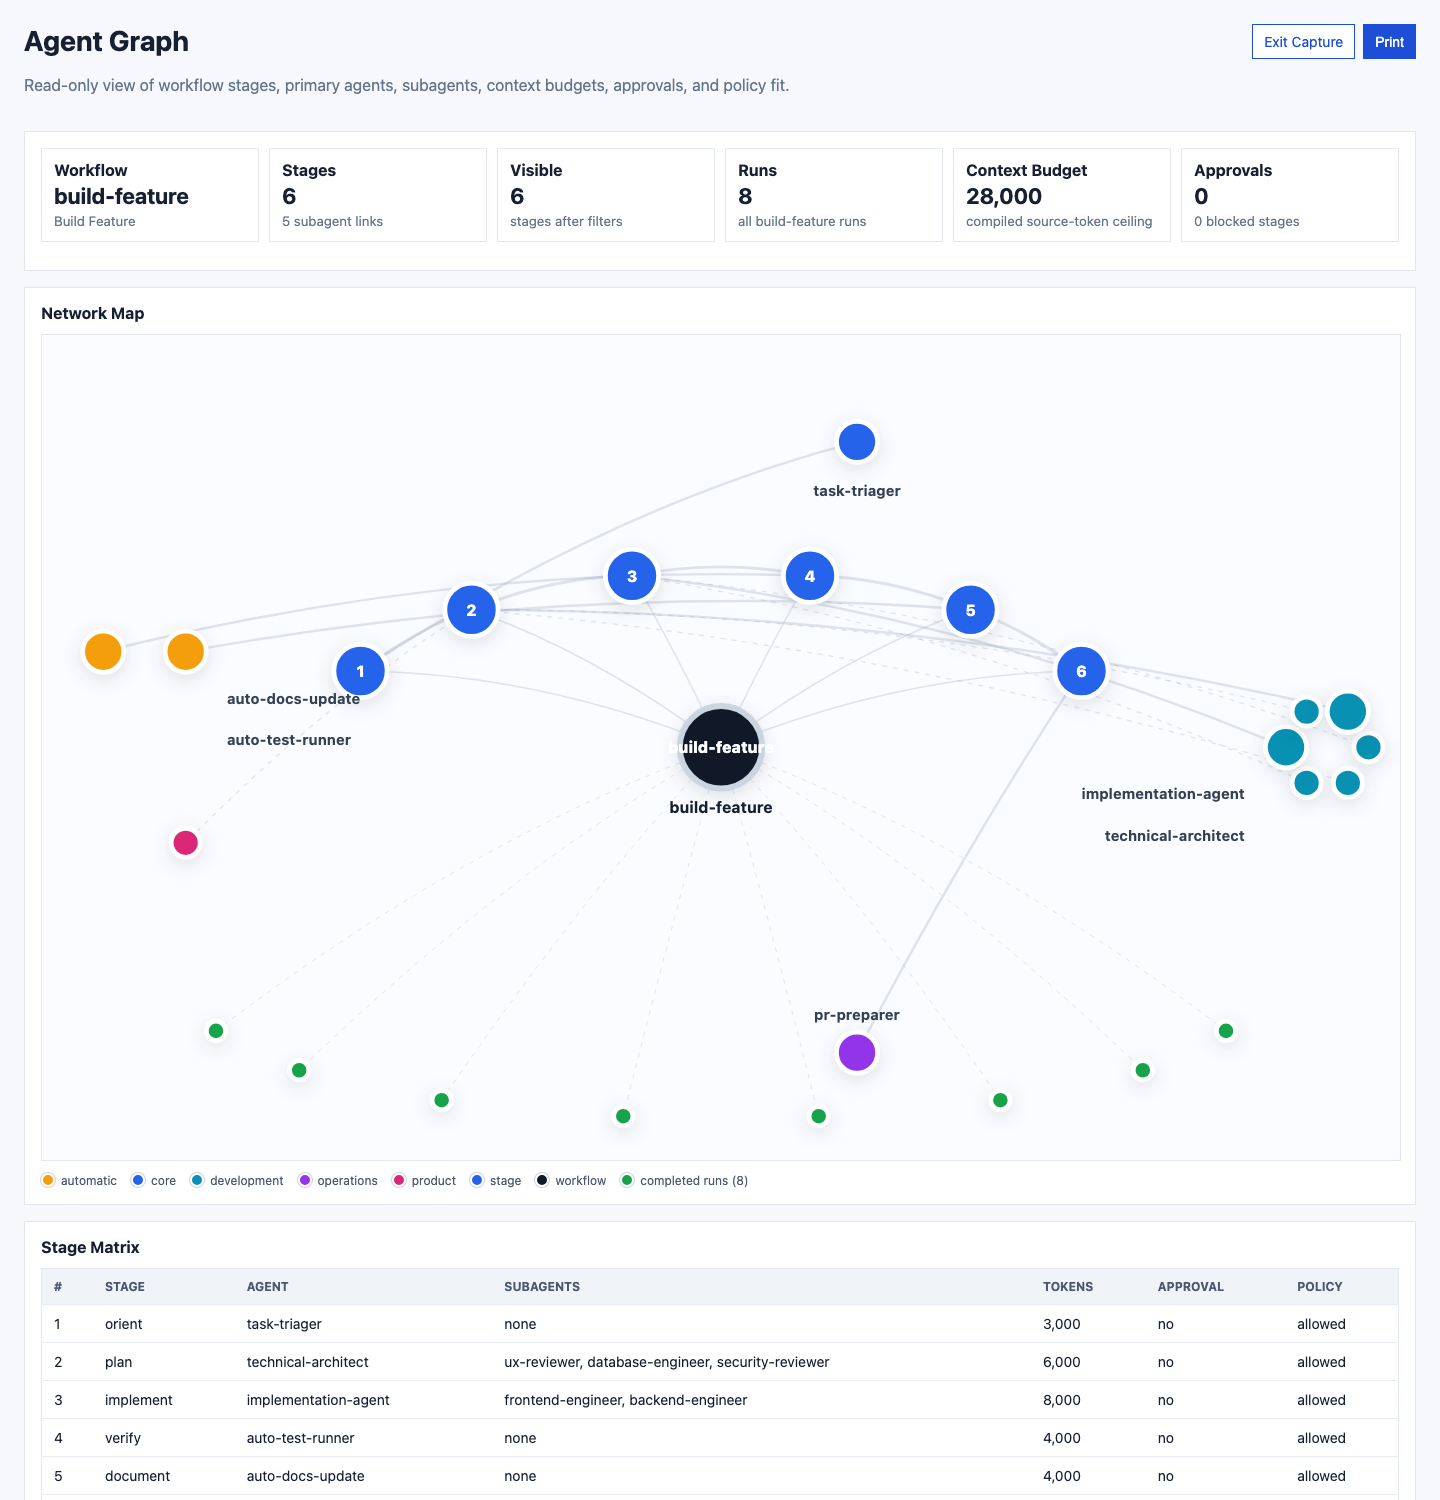
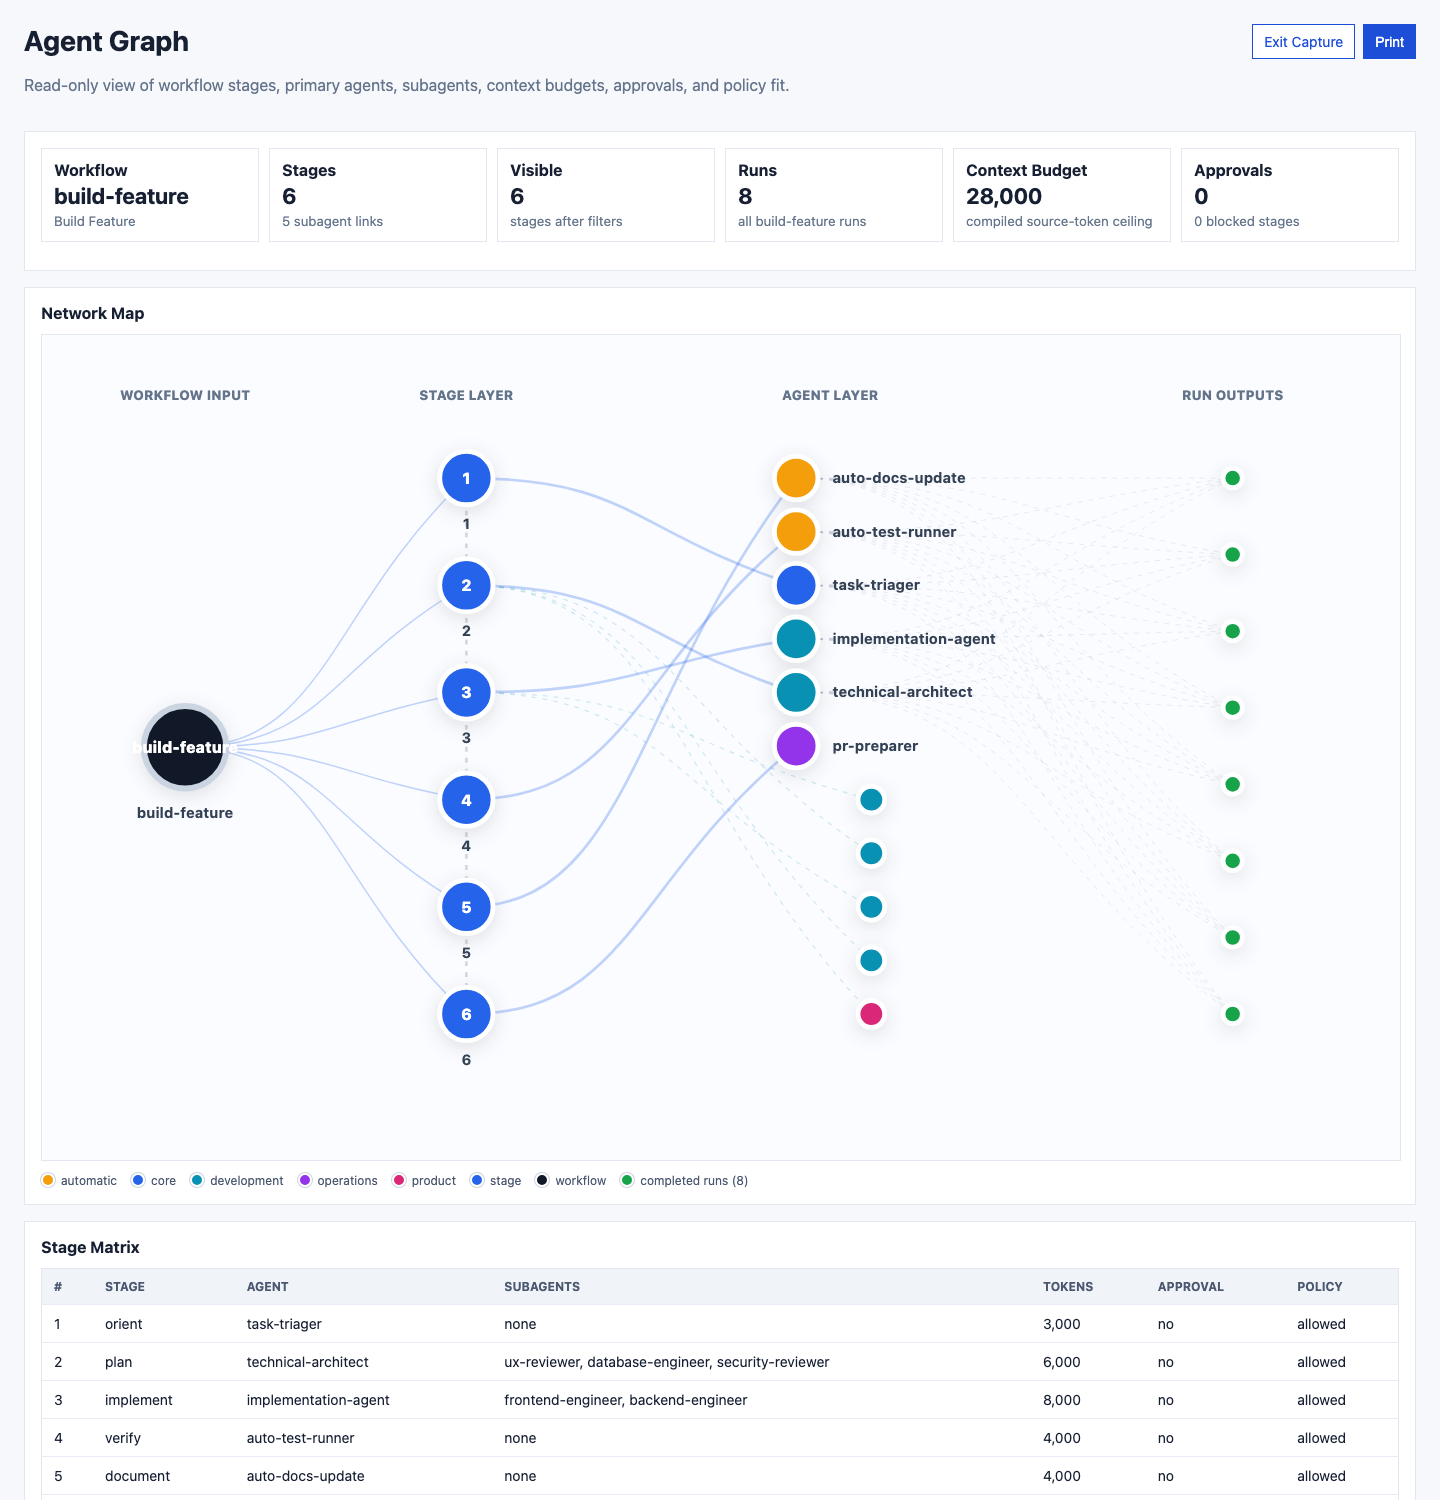
Render workflow graph as neural map

diff --git a/apps/cli/src/index.ts b/apps/cli/src/index.ts
@@ -5667,10 +5667,12 @@ function renderWorkflowNetworkHtml(report: DashboardWorkflowGraphReport, stages:
   if (!stages.length) return '<p class="muted">No stages match the selected filters.</p>';
   const width = 1120;
   const height = 680;
-  const centerX = width / 2;
-  const centerY = height / 2;
-  const stageRadiusX = 330;
-  const stageRadiusY = 145;
+  const layerTop = 118;
+  const layerBottom = 560;
+  const workflowX = 118;
+  const stageX = 350;
+  const agentX = 650;
+  const runX = 982;
   const palette: Record<string, string> = {
     automatic: "#f59e0b",
     core: "#2563eb",
@@ -5686,36 +5688,43 @@ function renderWorkflowNetworkHtml(report: DashboardWorkflowGraphReport, stages:
     queued: "#f59e0b",
     cancelled: "#64748b"
   };
-  const nodeById = new Map<string, { id: string; label: string; title: string; x: number; y: number; r: number; color: string; kind: string; href?: string; labelOffsetY?: number; labelX?: number; labelY?: number; labelAnchor?: string }>();
-  const links: Array<{ from: string; to: string; width: number; dashed?: boolean }> = [];
+  type NetworkNode = { id: string; label: string; title: string; x: number; y: number; r: number; color: string; kind: string; href?: string; labelX?: number; labelY?: number; labelAnchor?: string };
+  const nodeById = new Map<string, NetworkNode>();
+  const links: Array<{ from: string; to: string; width: number; dashed?: boolean; className?: string }> = [];
   nodeById.set("workflow", {
     id: "workflow",
     label: report.workflow.id,
     title: `${report.workflow.name} workflow`,
-    x: centerX,
-    y: centerY,
+    x: workflowX,
+    y: height / 2,
     r: 34,
     color: "#111827",
-    kind: "workflow"
+    kind: "workflow",
+    labelX: workflowX,
+    labelY: height / 2 + 58,
+    labelAnchor: "middle"
   });
 
   const agentEntries = new Map<string, { id: string; label: string; category: string; stageIds: Set<string>; isPrimary: boolean }>();
   stages.forEach((stage, index) => {
-    const angle = stages.length === 1 ? -Math.PI / 2 : -Math.PI + (Math.PI * (index + 1)) / (stages.length + 1);
+    const y = distributeLayerY(index, stages.length, layerTop, layerBottom);
     const stageNodeId = `stage:${stage.id}`;
     nodeById.set(stageNodeId, {
       id: stageNodeId,
       label: String(stage.order),
       title: `${stage.id}: ${stage.goal}`,
-      x: centerX + Math.cos(angle) * stageRadiusX,
-      y: centerY + Math.sin(angle) * stageRadiusY,
+      x: stageX,
+      y,
       r: 22,
       color: stage.policyAllowed ? (stage.approvalRequired || stage.policyApprovalRequired ? "#f59e0b" : "#2563eb") : "#dc2626",
       kind: "stage",
-      href: `#${stageAnchorId(stage.id)}`
+      href: `#${stageAnchorId(stage.id)}`,
+      labelX: stageX,
+      labelY: y + 42,
+      labelAnchor: "middle"
     });
-    links.push({ from: "workflow", to: stageNodeId, width: 1.2 });
-    if (index > 0) links.push({ from: `stage:${stages[index - 1].id}`, to: stageNodeId, width: 2.4 });
+    links.push({ from: "workflow", to: stageNodeId, width: 1.2, className: "signal" });
+    if (index > 0) links.push({ from: `stage:${stages[index - 1].id}`, to: stageNodeId, width: 2.2, dashed: true, className: "sequence" });
     const primary = agentEntries.get(stage.agentId) ?? {
       id: stage.agentId,
       label: stage.agentDisplayName ?? stage.agentId,
@@ -5726,7 +5735,7 @@ function renderWorkflowNetworkHtml(report: DashboardWorkflowGraphReport, stages:
     primary.stageIds.add(stageNodeId);
     primary.isPrimary = true;
     agentEntries.set(stage.agentId, primary);
-    links.push({ from: stageNodeId, to: `agent:${stage.agentId}`, width: 2 });
+    links.push({ from: stageNodeId, to: `agent:${stage.agentId}`, width: 2.2, className: "signal" });
     stage.subagents.forEach((subagent) => {
       const entry = agentEntries.get(subagent.id) ?? {
         id: subagent.id,
@@ -5737,84 +5746,55 @@ function renderWorkflowNetworkHtml(report: DashboardWorkflowGraphReport, stages:
       };
       entry.stageIds.add(stageNodeId);
       agentEntries.set(subagent.id, entry);
-      links.push({ from: stageNodeId, to: `agent:${subagent.id}`, width: 1, dashed: true });
+      links.push({ from: stageNodeId, to: `agent:${subagent.id}`, width: 1, dashed: true, className: "support" });
     });
   });
 
-  const agentsByCategory = new Map<string, Array<{ id: string; label: string; category: string; stageIds: Set<string>; isPrimary: boolean }>>();
-  for (const agent of agentEntries.values()) {
-    const category = agent.category || "uncategorized";
-    const group = agentsByCategory.get(category) ?? [];
-    group.push(agent);
-    agentsByCategory.set(category, group);
-  }
-  const categories = uniqueSorted([...agentsByCategory.keys()]);
-  categories.forEach((category, categoryIndex) => {
-    const group = (agentsByCategory.get(category) ?? []).sort((a, b) => a.id.localeCompare(b.id));
-    const primaryAgents = group.filter((agent) => agent.isPrimary);
-    const primaryRankById = new Map(primaryAgents.map((agent, index) => [agent.id, index]));
-    const categoryAngle = -Math.PI * 0.9 + ((Math.PI * 1.8) * categoryIndex) / Math.max(categories.length - 1, 1);
-    const anchorX = centerX + Math.cos(categoryAngle) * 500;
-    const anchorY = centerY + Math.sin(categoryAngle) * 255;
-    group
-      .forEach((agent, agentIndex) => {
-        const offsetAngle = (Math.PI * 2 * agentIndex) / Math.max(group.length, 1);
-        const radius = 34 + Math.floor(agentIndex / 6) * 28;
-        const primaryRank = primaryRankById.get(agent.id);
-        const edgeCluster = anchorX < 170 || anchorX > width - 170;
-        const primaryOffset = primaryRank === undefined ? 0 : primaryRank - (primaryAgents.length - 1) / 2;
-        nodeById.set(`agent:${agent.id}`, {
-          id: `agent:${agent.id}`,
-          label: agent.id,
-          title: `${agent.label} (${category})`,
-          x: anchorX + Math.cos(offsetAngle) * radius,
-          y: anchorY + Math.sin(offsetAngle) * radius,
-          r: agent.isPrimary ? 17 : 12,
-          color: palette[category] ?? palette.uncategorized,
-          kind: agent.isPrimary ? "primary agent" : "subagent",
-          labelOffsetY: primaryRank === undefined ? 0 : primaryOffset * 34,
-          labelX: edgeCluster && primaryRank !== undefined ? anchorX < centerX ? anchorX + 68 : anchorX - 68 : undefined,
-          labelY: edgeCluster && primaryRank !== undefined ? anchorY + 60 + primaryOffset * 34 : undefined,
-          labelAnchor: edgeCluster && primaryRank !== undefined ? anchorX < centerX ? "start" : "end" : undefined
-        });
-      });
+  const agents = [...agentEntries.values()].sort((a, b) => {
+    if (a.isPrimary !== b.isPrimary) return a.isPrimary ? -1 : 1;
+    return a.category.localeCompare(b.category) || a.id.localeCompare(b.id);
   });
-  const activeRuns = report.runs.filter((run) => run.status === "queued" || run.status === "running");
-  const historicalRuns = report.runs.filter((run) => run.status !== "queued" && run.status !== "running");
-  activeRuns.forEach((run, index) => {
-    const x = centerX - 90 + index * 60;
-    const y = centerY - 84;
-    nodeById.set(`run:${run.id}`, {
-      id: `run:${run.id}`,
-      label: run.status === "running" ? "run" : "q",
-      title: `${run.status}: ${run.task} (${run.id})`,
+  const categories = uniqueSorted(agents.map((agent) => agent.category || "uncategorized"));
+  agents.forEach((agent, index) => {
+    const y = distributeLayerY(index, agents.length, layerTop, layerBottom);
+    const x = agentX + (agent.isPrimary ? -28 : 34);
+    nodeById.set(`agent:${agent.id}`, {
+      id: `agent:${agent.id}`,
+      label: agent.id,
+      title: `${agent.label} (${agent.category})`,
       x,
       y,
-      r: 14,
-      color: runPalette[run.status] ?? "#64748b",
-      kind: "run",
-      href: `/run?id=${encodeURIComponent(run.id)}`
+      r: agent.isPrimary ? 18 : 11,
+      color: palette[agent.category] ?? palette.uncategorized,
+      kind: agent.isPrimary ? "primary agent" : "subagent",
+      labelX: agent.isPrimary ? x + 30 : undefined,
+      labelY: agent.isPrimary ? y + 4 : undefined,
+      labelAnchor: agent.isPrimary ? "start" : undefined
     });
-    links.push({ from: "workflow", to: `run:${run.id}`, width: 2.2 });
   });
-  const historyRadiusX = 430;
-  const historyRadiusY = 96;
-  historicalRuns.forEach((run, index) => {
-    const angle = Math.PI * 0.08 + (Math.PI * 0.84 * index) / Math.max(historicalRuns.length - 1, 1);
-    const x = centerX + Math.cos(angle) * historyRadiusX;
-    const y = centerY + 210 + Math.sin(angle) * historyRadiusY;
+
+  const runs = report.runs.slice(0, 36);
+  runs.forEach((run, index) => {
+    const y = distributeLayerY(index, Math.max(runs.length, 1), layerTop, layerBottom);
+    const active = run.status === "queued" || run.status === "running";
     nodeById.set(`run:${run.id}`, {
       id: `run:${run.id}`,
-      label: "",
+      label: active ? run.status.slice(0, 1).toUpperCase() : "",
       title: `${run.status}: ${run.task} (${run.id})`,
-      x,
+      x: runX,
       y,
-      r: run.status === "failed" ? 10 : 8,
+      r: active ? 14 : run.status === "failed" ? 11 : 8,
       color: runPalette[run.status] ?? "#64748b",
       kind: "run",
-      href: `/run?id=${encodeURIComponent(run.id)}`
+      href: `/run?id=${encodeURIComponent(run.id)}`,
+      labelX: active || run.status === "failed" ? runX + 22 : undefined,
+      labelY: active || run.status === "failed" ? y + 4 : undefined,
+      labelAnchor: active || run.status === "failed" ? "start" : undefined
     });
-    links.push({ from: "workflow", to: `run:${run.id}`, width: run.status === "failed" ? 1.4 : 0.8, dashed: true });
+    const sourceAgents = agents.filter((agent) => agent.isPrimary).slice(0, 5);
+    sourceAgents.forEach((agent) => {
+      links.push({ from: `agent:${agent.id}`, to: `run:${run.id}`, width: run.status === "failed" ? 1.3 : 0.7, dashed: !active, className: "outcome" });
+    });
   });
 
   const linkSvg = links.map((link) => {
@@ -5822,9 +5802,10 @@ function renderWorkflowNetworkHtml(report: DashboardWorkflowGraphReport, stages:
     const to = nodeById.get(link.to);
     if (!from || !to) return "";
     const midX = (from.x + to.x) / 2;
-    const midY = (from.y + to.y) / 2 - Math.min(42, Math.abs(from.x - to.x) / 10);
+    const midY = (from.y + to.y) / 2;
     const dash = link.dashed ? ' stroke-dasharray="4 5"' : "";
-    return `<path d="M ${formatSvgNumber(from.x)} ${formatSvgNumber(from.y)} Q ${formatSvgNumber(midX)} ${formatSvgNumber(midY)} ${formatSvgNumber(to.x)} ${formatSvgNumber(to.y)}" stroke-width="${link.width}"${dash}></path>`;
+    const className = link.className ? ` class="${escapeHtml(link.className)}"` : "";
+    return `<path${className} d="M ${formatSvgNumber(from.x)} ${formatSvgNumber(from.y)} C ${formatSvgNumber(midX)} ${formatSvgNumber(from.y)}, ${formatSvgNumber(midX)} ${formatSvgNumber(midY)}, ${formatSvgNumber(to.x)} ${formatSvgNumber(to.y)}" stroke-width="${link.width}"${dash}></path>`;
   }).join("");
   const nodeSvg = [...nodeById.values()].map((node) => {
     const body = `<g class="network-node network-${escapeHtml(node.kind.replace(/\s+/g, "-"))}" transform="translate(${formatSvgNumber(node.x)} ${formatSvgNumber(node.y)})">
@@ -5835,15 +5816,22 @@ function renderWorkflowNetworkHtml(report: DashboardWorkflowGraphReport, stages:
     return node.href ? `<a href="${escapeHtml(node.href)}" aria-label="${escapeHtml(node.title)}">${body}</a>` : body;
   }).join("");
   const labelSvg = [...nodeById.values()]
-    .filter((node) => node.kind === "workflow" || node.kind === "primary agent")
-    .map((node) => renderNetworkLabel(node, { width }))
+    .filter((node) => node.kind === "workflow" || node.kind === "primary agent" || node.labelX !== undefined)
+    .map((node) => renderNetworkLabel(node))
     .join("");
+  const layerLabels = [
+    { x: workflowX, label: "workflow input" },
+    { x: stageX, label: "stage layer" },
+    { x: agentX, label: "agent layer" },
+    { x: runX, label: "run outputs" }
+  ].map((layer) => `<text class="network-layer-label" x="${layer.x}" y="54" text-anchor="middle">${escapeHtml(layer.label)}</text>`).join("");
   const runCounts = countBy(report.runs.map((run) => run.status));
   const runLegend = Object.entries(runCounts).map(([status, count]) => `<span><i style="background:${runPalette[status] ?? "#64748b"}"></i>${escapeHtml(status)} runs (${count})</span>`).join("");
   const legend = categories.map((category) => `<span><i style="background:${palette[category] ?? palette.uncategorized}"></i>${escapeHtml(category)}</span>`).join("");
   return `<div class="network-shell">
     <svg class="network-map" viewBox="0 0 ${width} ${height}" role="img" aria-label="Workflow network map for ${escapeHtml(report.workflow.name)}">
       <rect width="${width}" height="${height}" rx="0"></rect>
+      <g>${layerLabels}</g>
       <g class="network-links">${linkSvg}</g>
       <g class="network-nodes">${nodeSvg}</g>
       <g>${labelSvg}</g>
@@ -5852,24 +5840,14 @@ function renderWorkflowNetworkHtml(report: DashboardWorkflowGraphReport, stages:
   </div>`;
 }
 
-function renderNetworkLabel(node: { label: string; x: number; y: number; r: number; kind: string; labelOffsetY?: number; labelX?: number; labelY?: number; labelAnchor?: string }, bounds: { width: number }): string {
-  if (node.kind === "workflow") {
-    return `<text class="network-label workflow-label" x="${formatSvgNumber(node.x)}" y="${formatSvgNumber(node.y + node.r + 20)}" text-anchor="middle">${escapeHtml(truncateMiddle(node.label, 26))}</text>`;
-  }
-  if (node.labelX !== undefined && node.labelY !== undefined && node.labelAnchor) {
-    return `<text class="network-label" x="${formatSvgNumber(node.labelX)}" y="${formatSvgNumber(node.labelY)}" text-anchor="${node.labelAnchor}">${escapeHtml(truncateMiddle(node.label, 21))}</text>`;
-  }
-  const padding = 28;
-  const edgeBuffer = 160;
-  const textX = node.x < edgeBuffer
-    ? node.x + node.r + 8
-    : node.x > bounds.width - edgeBuffer
-      ? node.x - node.r - 8
-      : node.x;
-  const anchor = node.x < edgeBuffer ? "start" : node.x > bounds.width - edgeBuffer ? "end" : "middle";
-  const baseY = node.y > 590 ? node.y - node.r - 10 : node.y + node.r + padding;
-  const textY = baseY + (node.labelOffsetY ?? 0);
-  return `<text class="network-label" x="${formatSvgNumber(textX)}" y="${formatSvgNumber(textY)}" text-anchor="${anchor}">${escapeHtml(truncateMiddle(node.label, 21))}</text>`;
+function distributeLayerY(index: number, total: number, top: number, bottom: number): number {
+  if (total <= 1) return (top + bottom) / 2;
+  return top + ((bottom - top) * index) / (total - 1);
+}
+
+function renderNetworkLabel(node: { label: string; labelX?: number; labelY?: number; labelAnchor?: string }): string {
+  if (node.labelX === undefined || node.labelY === undefined || !node.labelAnchor) return "";
+  return `<text class="network-label" x="${formatSvgNumber(node.labelX)}" y="${formatSvgNumber(node.labelY)}" text-anchor="${node.labelAnchor}">${escapeHtml(truncateMiddle(node.label, 24))}</text>`;
 }
 
 function countBy(values: string[]): Record<string, number> {
@@ -9058,7 +9036,11 @@ function dashboardCss(): string {
     .network-shell { display: grid; gap: 12px; }
     .network-map { display: block; width: 100%; min-height: 430px; border: 1px solid #e2e7f0; background: #fbfcff; }
     .network-map rect { fill: #fbfcff; }
-    .network-links path { fill: none; stroke: #94a3b8; stroke-opacity: 0.28; }
+    .network-links path { fill: none; stroke: #94a3b8; stroke-opacity: 0.24; }
+    .network-links .signal { stroke: #2563eb; stroke-opacity: 0.28; }
+    .network-links .support { stroke: #0891b2; stroke-opacity: 0.18; }
+    .network-links .sequence { stroke: #111827; stroke-opacity: 0.16; }
+    .network-links .outcome { stroke: #64748b; stroke-opacity: 0.16; }
     .network-node circle { stroke: white; stroke-width: 4; filter: drop-shadow(0 4px 8px rgba(15,23,42,0.12)); }
     .network-node text { fill: white; font-size: 13px; font-weight: 800; pointer-events: none; }
     .network-node { cursor: default; }
@@ -9067,7 +9049,7 @@ function dashboardCss(): string {
     .network-map a { outline: none; }
     .network-workflow circle { stroke: #cbd5e1; stroke-width: 5; }
     .network-label { fill: #334155; font-size: 12px; font-weight: 700; }
-    .workflow-label { fill: #172033; font-size: 13px; }
+    .network-layer-label { fill: #64748b; font-size: 11px; font-weight: 800; letter-spacing: 0; text-transform: uppercase; }
     .network-legend { display: flex; flex-wrap: wrap; gap: 8px 14px; align-items: center; color: #4b5870; font-size: 12px; }
     .network-legend span { display: inline-flex; align-items: center; gap: 6px; }
     .network-legend i { display: inline-block; width: 10px; height: 10px; border-radius: 999px; border: 2px solid white; box-shadow: 0 0 0 1px #cbd5e1; }

diff --git a/docs/user-guide.md b/docs/user-guide.md
@@ -249,19 +249,19 @@ The local dashboard exposes the same inspection surface at
 you want a browser-readable graph of workflow stages, primary agents, subagents,
 context budgets, approval points, and policy fit before spending live model
 tokens. Add `&view=mind-map` to switch the dashboard visualization to a
-presentation-friendly agent connection map, or `&view=network` for a visual SVG
-network map of workflow, stage, primary-agent, subagent, and recent run-history
-relationships. In the network map, stage nodes jump to the Stage Matrix and run
-nodes open the run detail page, so the visual becomes a lightweight inspection
-surface. Use `runLimit=0` for definition-only diagrams or raise the limit up to
-`250` when you want more historical runs in the graph. Use the run-status quick
-links for developer triage: Active Runs shows queued/running work, Failed Runs
-turns the map into a debugging surface, and Definition Only hides run history
-for clean architecture snapshots. The page also includes filters for agent
-category, approval requirement, and policy status so larger workflows stay
-scannable. Add `&capture=1` for a clean screenshot/print view that hides the
-dashboard navigation and form controls while preserving the selected workflow,
-view, run limit, run status, and filters.
+presentation-friendly agent connection map, or `&view=network` for a layered
+neural-style SVG map of workflow input, stage layer, agent layer, and recent
+run-history outputs. In the network map, stage nodes jump to the Stage Matrix
+and run nodes open the run detail page, so the visual becomes a lightweight
+inspection surface. Use `runLimit=0` for definition-only diagrams or raise the
+limit up to `250` when you want more historical runs in the graph. Use the
+run-status quick links for developer triage: Active Runs shows queued/running
+work, Failed Runs turns the map into a debugging surface, and Definition Only
+hides run history for clean architecture snapshots. The page also includes
+filters for agent category, approval requirement, and policy status so larger
+workflows stay scannable. Add `&capture=1` for a clean screenshot/print view
+that hides the dashboard navigation and form controls while preserving the
+selected workflow, view, run limit, run status, and filters.
 
 ![Workflow network map](assets/screenshots/dashboard-workflow-network.png)
 

diff --git a/docs/roadmap.md b/docs/roadmap.md
@@ -175,6 +175,7 @@ trust gaps.
   - Done: make network-map nodes inspectable by linking stages to the Stage Matrix and runs to run details.
   - Done: improve network-map label placement near graph edges for dense workflows.
   - Done: add focused graph run-status filters for active runs, failed runs, exact statuses, and definition-only snapshots.
+  - Done: reshape the network map into a layered neural-style developer view with workflow input, stage layer, agent layer, and run outputs.
   - Next: overlay per-stage run health so the graph can show which workflow step tends to fail or stall.
 
 - [x] Optional model-improvement workflow pack.
